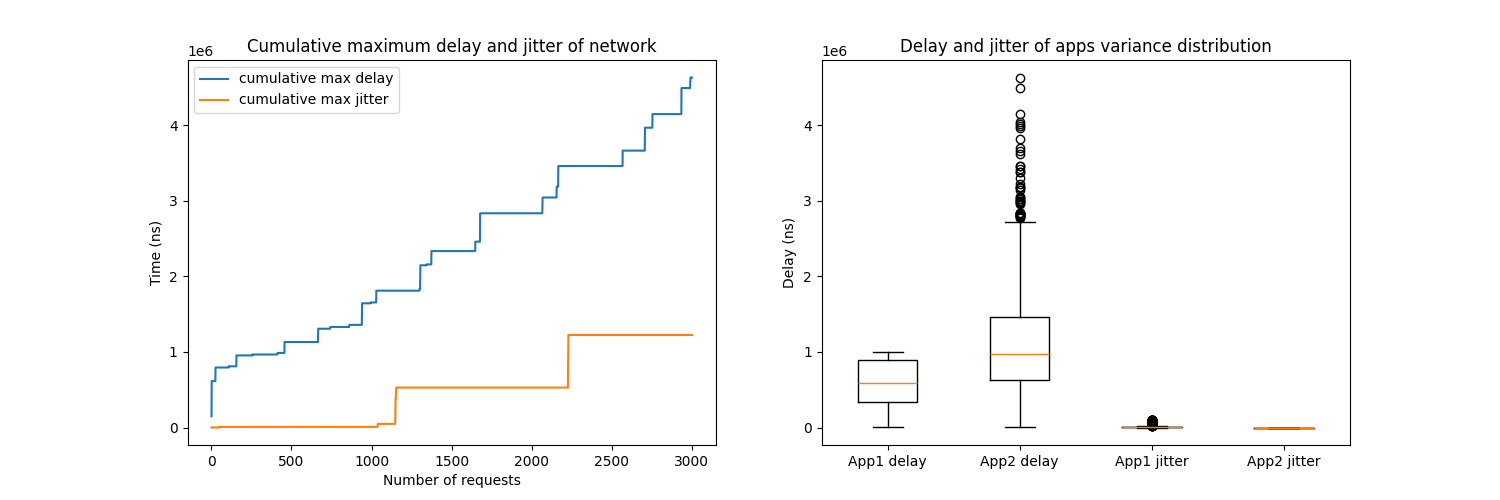
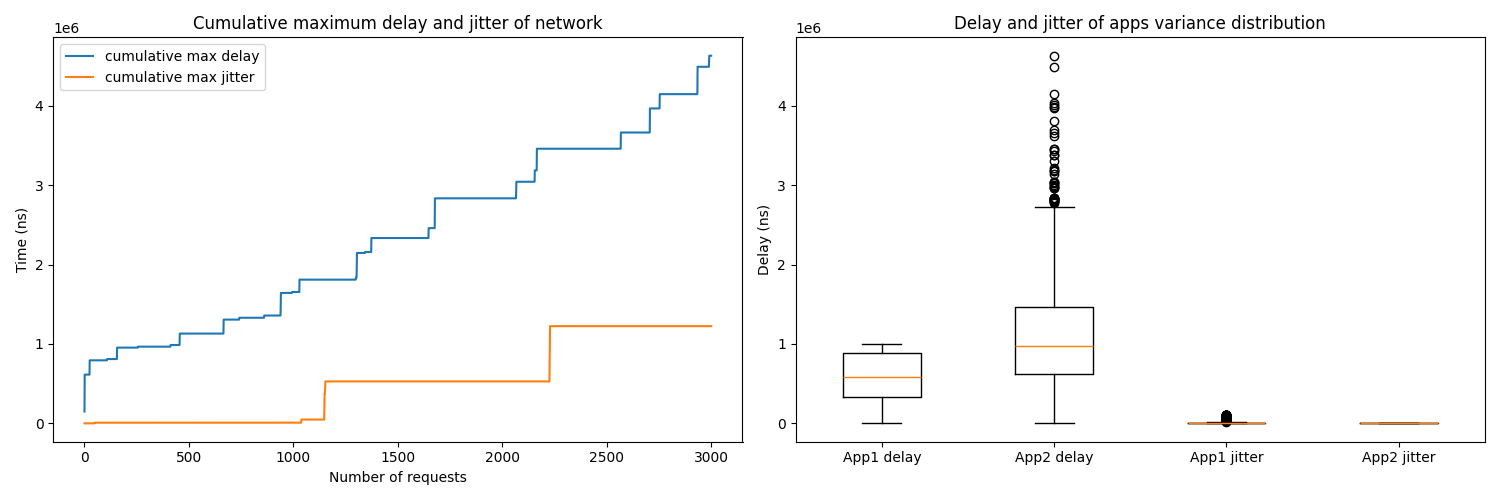
benchmarks

diff --git a/instance_generator/generate_graph.py b/instance_generator/generate_graph.py
@@ -80,7 +80,7 @@ ax.legend()
 #ax.set_yscale('log')
 ax.set_xlabel('Number of requests')
 ax.set_ylabel('Time (s)')
-
+plt.tight_layout()
 plt.savefig(f'instance_generator/graphs/{args.filename}/time.png')
 
 #GRAPH 2 - cumulative delay/jitter - boxplot
@@ -97,6 +97,7 @@ ax[1].boxplot([app1_delay, app2_delay, app1_jitter, app2_jitter])
 ax[1].set_xticks([1, 2, 3, 4], ['App1 delay', 'App2 delay', 'App1 jitter', 'App2 jitter'])
 ax[1].set_ylabel('Delay (ns)')
 ax[1].set_title('Delay and jitter of apps variance distribution')
+plt.tight_layout()
 plt.savefig(f'instance_generator/graphs/{args.filename}/cumulative.png')
 
 # GRAPH 3 - KPI 
@@ -128,5 +129,5 @@ ax[1,1].legend()
 ax[1,1].set_xlabel('Number of requests')
 ax[1,1].set_ylabel('Time (ns)')
 ax[1,1].set_title('Cumulativ emaximum delay and jitter of App2')
-
+plt.tight_layout()
 plt.savefig(f'instance_generator/graphs/{args.filename}/kpi.png')
